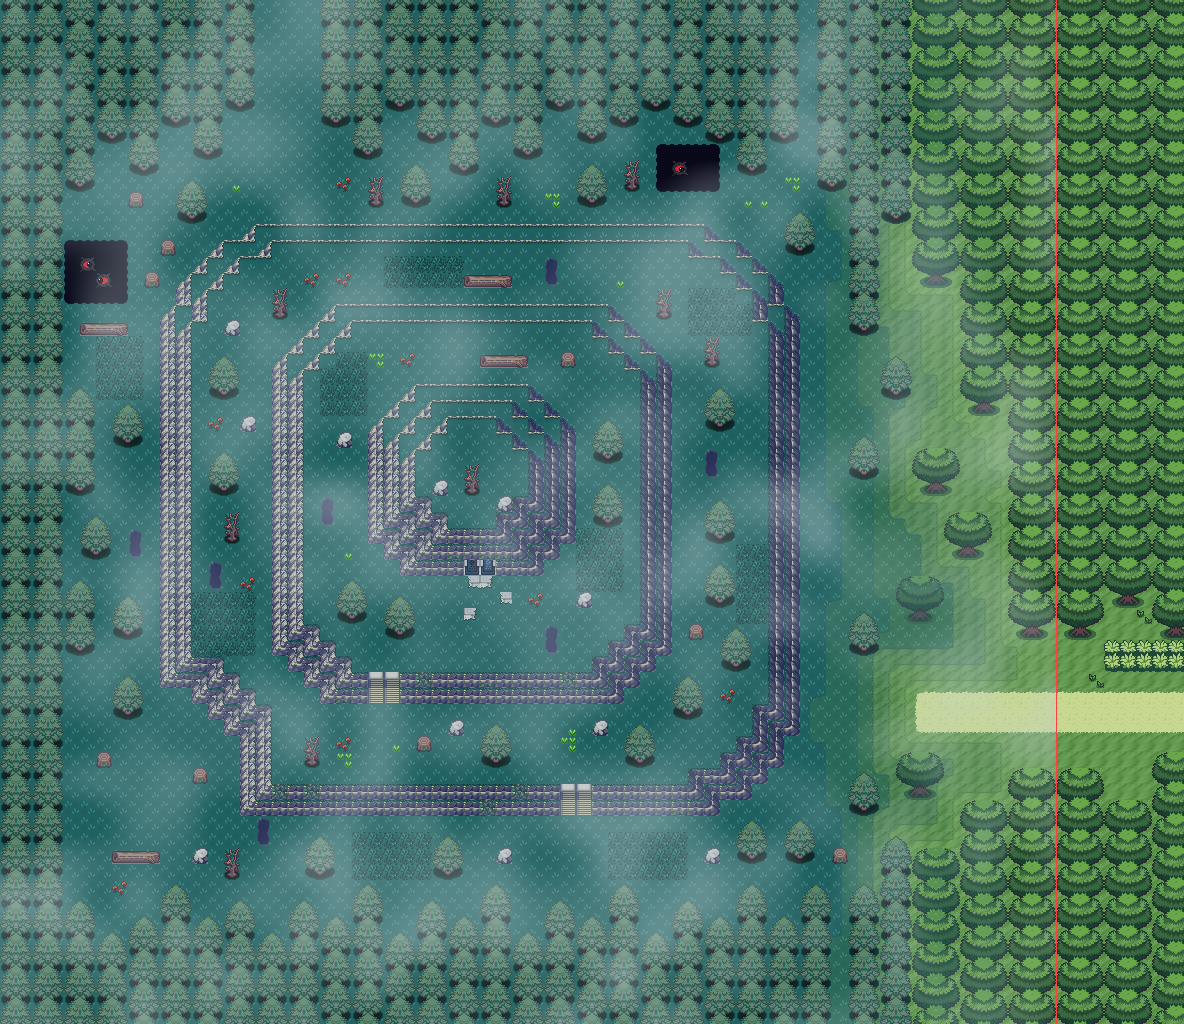
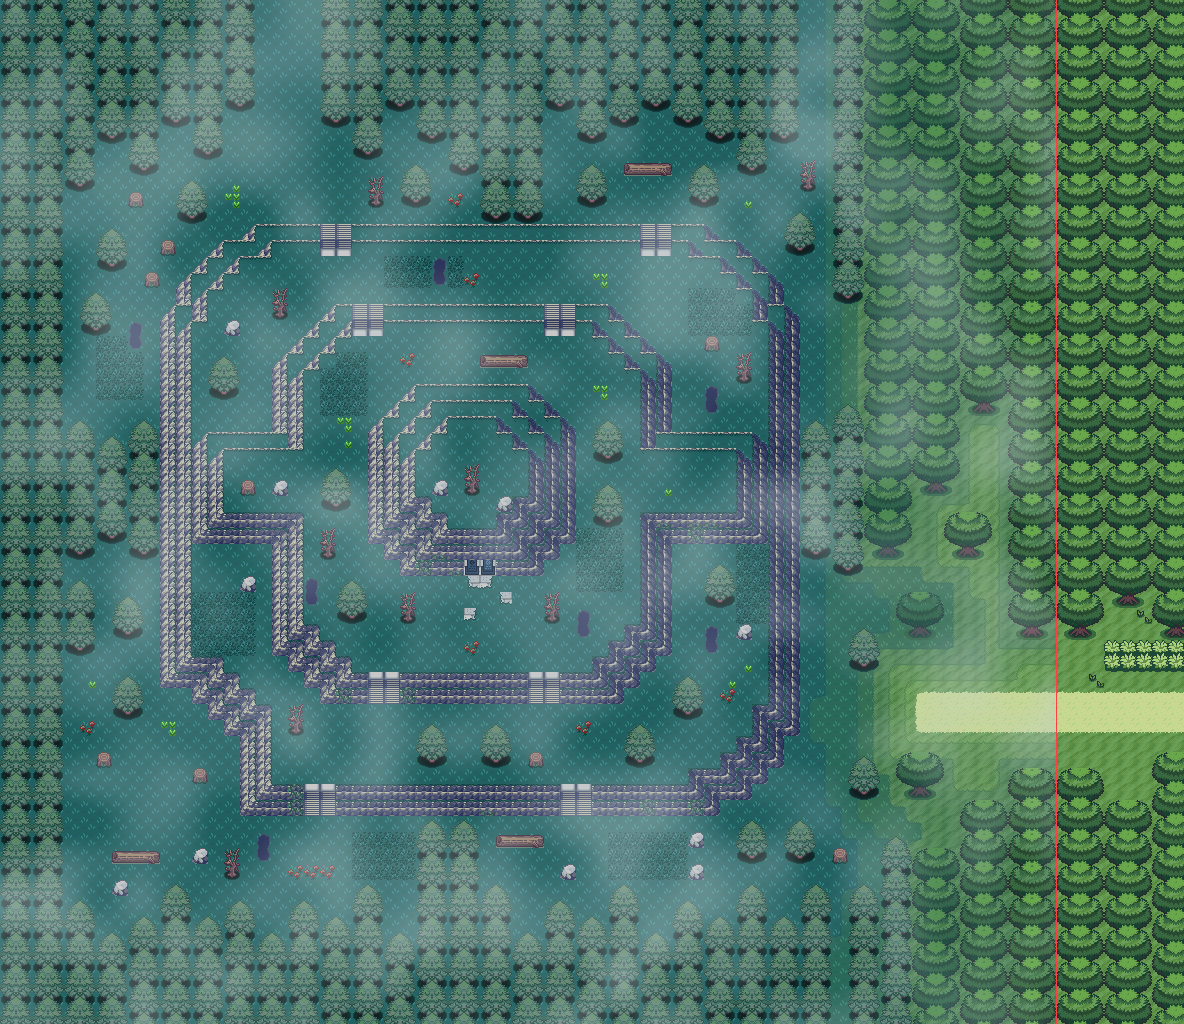
Hollow Hill mock v2: the way north goes over the hill
Per the user: the forest floor is closed into sections where trees meet the cliffs
(west, north, east, south), ring 2 reaches out west and east to cut ring 1 in two,
and eight stairs (four per ring, south faces and north edges) link the sections.
The mock asserts the north exit cannot be reached without crossing ring 2, and that
the woods do not join round the hill. The void pits are gone.

Claude-Session: https://claude.ai/code/session_01FHXnfqnedTHLf5QFbB3MCU

diff --git a/tools/art/hollowhill/hh_mock.py b/tools/art/hollowhill/hh_mock.py
@@ -94,7 +94,8 @@ def clean(m):
 
 def rings():
     P1 = rrect(10, 14, 49, 50, 7) & ~rrect(2, 43, 14, 63, 5)     # ring 1, the south-west clearing bitten out of it
-    P2 = rrect(17, 19, 41, 43, 5)
+    P2 = rrect(17, 19, 41, 43, 5) | rrect(12, 27, 47, 33, 0)     # ring 2 runs out to ring 1's edge west and east,
+                                                               # cutting ring 1 in two (north and south halves)
     P3 = rrect(23, 24, 35, 35, 4)                               # the knoll
     P1, P2, P3 = clean(P1), clean(P2), clean(P3)
     E = cheb_depth(P1, 2) + cheb_depth(P2, 2) + cheb_depth(P3, 3)
@@ -152,7 +153,9 @@ class Map:
         return True
 
     def cell(self, x, y):
-        if (x, y) in self.face: img = ody(self.face[x, y]).copy()
+        if (x, y) in self.face:
+            v = self.face[x, y]; img = ody(abs(v)).copy()
+            if v < 0: img = img[::-1].copy()              # (negative: drawn upside down, stairs on a north edge)
         elif self.ground[y][x] is not None: img = self.ground[y][x].copy()
         else:
             f = self.field; img = ground_cell((f[y, x], f[y, x + 1], f[y + 1, x], f[y + 1, x + 1]))
@@ -201,7 +204,7 @@ def flatten(M, x0, y0, w, h, k):
 def settle(M):
     """After flattening: no cell may span more than two neighbouring shades; unlocked vertices give way."""
     f, lk = M.field, M.lock
-    for _ in range(16):
+    for _ in range(80):
         bad = False
         for yy in range(H):
             for xx in range(W):
@@ -245,7 +248,7 @@ CROWN_WOODS_N = lambda yb, y, k: ((0x13, 0x14, 0x15)[k] if y == yb - 1 else (0x1
                                   else ((0x18, 0x19, 0x1a), (0x10, 0x11, 0x12))[(yb - 2 - y) % 2][k])
 CROWN_WOODS_S = lambda yt, y, k: ((0xb, 0xc, 0xd)[k] if y == yt else ((0x10, 0x11, 0x12), (0x18, 0x19, 0x1a))[(y - yt - 1) % 2][k])
 
-def crown_woods(M, cols, kind, t=0.0):
+def crown_woods(M, cols, kind, t=0.0, k=None):
     """Route 11's own woods (Crown's), columns three wide, as at Route 11's west end (on olive or moss ground)."""
     for x0, yt, yb in cols:
         for y in range(yt, yb + 1):
@@ -255,7 +258,7 @@ def crown_woods(M, cols, kind, t=0.0):
                 v = CROWN_WOODS_N(yb, y, k) if kind == 'north' else CROWN_WOODS_S(yt, y, k)
                 M.lay(x, y, 'c325', v, 'woods', top=kind == 'south' and y == yt)
                 if t: o = M.over[y][x][-1][0]; o[..., :3] = tint(o[..., :3], t)
-        flatten(M, x0, yt, 3, yb - yt + 1, min(1, int(M.field[yt:yb + 2, x0:x0 + 4].min())))
+        flatten(M, x0, yt, 3, yb - yt + 1, k if k is not None else min(1, int(M.field[yt:yb + 2, x0:x0 + 4].min())))
 
 def broad(M, x, y):
     assert M.free(x, y, 3, 3), ('broad', x, y)
@@ -284,13 +287,17 @@ def pit(M, x0, y0, w, h, eyes):
             M.ground[y][x] = ody(v).copy(); M.used[y, x] = 'pit'
 
 # ------------------------------------------------------------------ the composition
-S1 = (35, 49)                   # stairs up ring 1 (south face, two wide, two bands)
-S2 = (23, 42)                   # stairs up ring 2
+# stairs, two wide, two bands: (x, top row, 'S' on a south face | 'N' on a north edge)
+STAIRS = {'ring 1, from the south-east': (35, 49, 'S'), 'ring 1, from the clearing': (19, 49, 'S'),
+          'ring 1, down to the north woods': (20, 14, 'N'), 'ring 1, down to the north-east woods': (40, 14, 'N'),
+          'ring 2, south-west': (23, 42, 'S'), 'ring 2, south-east': (33, 42, 'S'),
+          'ring 2, north-west': (22, 19, 'N'), 'ring 2, north-east': (34, 19, 'N')}
 DOOR = (29, 35)                 # the sealed door, in the knoll's lowest band
-KEY = {'from Route 11': (57, 44), 'to Mirroh': (17, 5), 'clearing': (8, 50), 'foot of ring 1': (35, 51),
-       'ring 1': (35, 48), 'foot of ring 2': (23, 44), 'ring 2': (23, 41), 'the door': (29, 36)}
+KEY = {'from Route 11': (57, 44), 'to Mirroh': (17, 5), 'clearing': (8, 50), 'north-east woods': (46, 11),
+       'ring 1 south': (35, 48), 'ring 1 north': (30, 17), 'ring 2': (23, 41), 'the door': (29, 36)}
 # kept open: the clearing, the way north, the stairs' approaches, the door's forecourt, the track's end
-RESERVED = [(5, 46, 13, 54), (15, 0, 20, 13), (33, 47, 38, 54), (21, 40, 26, 45), (27, 36, 32, 39), (48, 42, 65, 46), (50, 30, 52, 50)]
+RESERVED = [(5, 46, 13, 54), (15, 0, 20, 13), (27, 36, 32, 39), (48, 42, 65, 46), (50, 36, 52, 50)] + \
+           [(x - 1, y - 3, x + 2, y + 4) for x, y, _ in STAIRS.values()]
 SOFT = {0x2ef, 0x2f6, 0x308, 0x30a, 0x290}      # weeds, slabs, mushrooms: walked over
 
 def walkable(M):
@@ -301,9 +308,10 @@ def walkable(M):
             if u is None or u == 'stairs' or u == 'road' or u.startswith('soft'): ok[y, x] = True
     return ok
 
-def connected(M):
+def connected(M, blocked=()):
     """Every key spot reachable from the track's end on foot (levels change only on the stairs)."""
     ok = walkable(M); E = M.E
+    for x, y in blocked: ok[y, x] = False
     start = KEY['from Route 11']; seen = {start}; todo = [start]
     while todo:
         x, y = todo.pop()
@@ -354,11 +362,14 @@ def compose(seed=5):
     M = Map(); M.field = shade_field()
     rng = np.random.default_rng(seed)
     # --- stairs and the door (cut into the south faces)
-    for x0, y0 in (S1, S2):
+    for name, (x0, y0, side) in STAIRS.items():
         for i in range(2):
             for b in range(2):
-                assert M.face.get((x0 + i, y0 + b)) == 0x2f1, ('stairs not on a south face', x0 + i, y0 + b)
-                M.face[x0 + i, y0 + b] = 0x339 if b == 0 else 0x338; M.used[y0 + b, x0 + i] = 'stairs'
+                want = 0x2f1 if side == 'S' else 0x2e1
+                assert M.face.get((x0 + i, y0 + b)) == want, ('stairs not on a straight edge', name, x0 + i, y0 + b)
+                # the landing on the high side: the top row on a south face, the bottom row (flipped) on a north edge
+                M.face[x0 + i, y0 + b] = (0x339 if b == 0 else 0x338) if side == 'S' else (0x338 if b == 0 else -0x339)
+                M.used[y0 + b, x0 + i] = 'stairs'
     for i, v in enumerate((0x2ed, 0x2ee)):
         assert M.face.get((DOOR[0] + i, DOOR[1])) == 0x2f1, ('door', DOOR)
         M.face[DOOR[0] + i, DOOR[1]] = v; M.used[DOOR[1], DOOR[0] + i] = 'door'
@@ -375,38 +386,42 @@ def compose(seed=5):
     # Crown's woods and Odyssey's pines mixing before the pines take over
     crown_woods(M, [(63, 0, 15 + OFF)], 'north'); crown_woods(M, [(63, 24 + OFF, H - 1)], 'south')
     crown_woods(M, [(60, 0, 25)], 'north', 0.18); crown_woods(M, [(60, 50, H - 1)], 'south', 0.18)
-    crown_woods(M, [(57, 0, 17)], 'north', 0.34); crown_woods(M, [(57, 53, H - 1)], 'south', 0.34)
-    for x0, yb in ((55, 13), (53, 20), (51, 11)): pine_column(M, x0, 0, yb, 'north')
+    crown_woods(M, [(57, 0, 30)], 'north', 0.3); crown_woods(M, [(57, 53, H - 1)], 'south', 0.34)
+    crown_woods(M, [(54, 0, 34)], 'north', 0.42, k=2)
+    pine_column(M, 52, 0, 18, 'north')
     for x0, yt in ((55, 52), (53, 55), (50, 55)): pine_column(M, x0, yt, H - 1, 'south')
     # west: two columns of Odyssey's pines the whole height
     pine_column(M, 0, 0, H - 1, 'wall'); pine_column(M, 2, 0, H - 1, 'wall')
     # north: pines hanging from the top, the gap for the way north to Mirroh (columns 16-19)
     for x0, yb in ((4, 11), (6, 8), (8, 10), (10, 7), (12, 9), (14, 6), (20, 7), (22, 9), (24, 6), (26, 8), (28, 10),
-                   (30, 7), (32, 9), (34, 6), (36, 8), (38, 7), (40, 6), (42, 7), (44, 8), (46, 10), (48, 8)):
+                   (30, 13), (32, 13), (34, 6), (36, 8), (38, 7), (40, 6), (42, 7), (44, 8), (46, 10), (48, 8)):
         pine_column(M, x0, 0, yb, 'north')
     # south: pines rising from the bottom
     for x0, yt in ((4, 56), (6, 58), (8, 57), (10, 55), (12, 57), (14, 56), (16, 58), (18, 56), (20, 57), (22, 55),
-                   (24, 58), (26, 56), (28, 57), (30, 55), (32, 58), (34, 56), (36, 57), (38, 55), (40, 58), (42, 56),
+                   (24, 58), (26, 51), (28, 51), (30, 55), (32, 58), (34, 56), (36, 57), (38, 55), (40, 58), (42, 56),
                    (44, 57), (46, 55), (48, 57)):
         pine_column(M, x0, yt, H - 1, 'south')
     # the west strip's edge, ragged: free-standing stacks of pines
-    pine_column(M, 4, 24, 30, 'stack'); pine_column(M, 4, 36, 40, 'stack')
+    pine_column(M, 4, 36, 40, 'stack')
+    # the forest floor closes off into sections where the woods meet the hill's cliffs: from one section to the
+    # next the way is always up into the hill (west, north, east and south)
+    for x0, yt, yb in ((4, 26, 34), (6, 27, 33), (8, 26, 34), (50, 26, 34), (52, 25, 35)):
+        pine_column(M, x0, yt, yb, 'stack')
     # --- the void pits, red eyes watching
-    pit(M, 4, 15, 4, 4, {(5, 16): 0x353, (6, 17): 0x354})
-    pit(M, 41, 9, 4, 3, {(42, 10): 0x357})
     # --- burrow mouths (scenery now; secrets later): Odyssey's hollow, 314 over 31c
-    for x, y in ((8, 33), (34, 16), (44, 28), (34, 39), (20, 31), (16, 51), (13, 35)):
-        thing(M, x, y, [[0x314], [0x31c]], 'thing:burrow')
+    for x, y in ((8, 20), (27, 16), (44, 24), (36, 38), (19, 36), (16, 52), (14, 42), (44, 39)):
+        try: thing(M, x, y, [[0x314], [0x31c]], 'thing:burrow')
+        except AssertionError: print('no room for a burrow at', x, y)
     # --- the knoll's forecourt: broken slabs before the door
     for x, y, v in ((29, 36, 0x308), (30, 36, 0x30a), (29, 38, 0x30a), (31, 37, 0x308)):
         M.lay(x, y, 'ody', v, 'soft:slab')
     # --- the east, between Route 11's woods and the haunted floor: a Crown broadleaf, then Odyssey's pines
-    near(M, broad, 3, [(57, 28), (56, 36), (59, 49), (61, 30)])
+    near(M, broad, 3, [(56, 37), (59, 49), (61, 30)])
     # the knoll's top: one dead tree, rocks (out of reach until late in the game)
     thing(M, 29, 29, [[0x2a0], [0x2a8]], 'thing:dead'); thing(M, 27, 30, 0x2fe, 'thing:rock'); thing(M, 31, 31, 0x2fe, 'thing:rock')
     # --- trees, dead trees, stumps, logs, rocks, mushrooms, weeds: scattered, never cut, stacked or touching a cliff,
     # and never closing the way between the key spots
-    near(M, pine, 2, [(53, 27), (54, 39), (53, 48), (55, 22)])    # Odyssey's pines in the mixed band
+    near(M, pine, 2, [(53, 39), (54, 48), (50, 16)])    # Odyssey's pines in the mixed band
     # tall grass (the wild Pokemon's): Odyssey's dark tufts, in patches
     for x0, y0, x1, y1 in ((6, 21, 8, 24), (12, 37, 15, 40), (38, 52, 42, 54), (22, 52, 26, 54), (43, 18, 46, 20),
                            (24, 16, 28, 17), (36, 33, 38, 36), (20, 22, 22, 25), (46, 34, 47, 38)):
@@ -427,6 +442,11 @@ def compose(seed=5):
     settle(M)
     miss = connected(M)
     assert not miss, ('cut off', miss)
+    # the hill is the only way between the sections: with ring 2's stairs closed the north is out of reach
+    ring2 = [(x + i, y + b) for n, (x, y, _) in STAIRS.items() if n.startswith('ring 2') for i in range(2) for b in range(2)]
+    assert 'to Mirroh' in connected(M, ring2), 'the north can be reached without crossing ring 2'
+    ring1 = [(x + i, y + b) for n, (x, y, _) in STAIRS.items() if n.startswith('ring 1') for i in range(2) for b in range(2)]
+    assert set(connected(M, ring1)) >= {'clearing', 'to Mirroh', 'north-east woods'}, 'the woods join round the hill'
     return M
 
 # ------------------------------------------------------------------ output
@@ -454,10 +474,10 @@ def fog(img, seed=3, amount=0.42):
     return (img * (1 - n) + fogc * n).astype(np.uint8)
 
 LABELS = [((17, 6), 'north to Mirroh (Glaive)'), ((8, 50), 'clearing: Eiscue, the 1v2'), ((59, 47), 'from Route 11'),
-          ((35, 52), 'stairs: ring 1'), ((23, 45), 'stairs: ring 2'), ((29, 37), 'sealed door'),
-          ((29, 27), 'knoll top (late game)'), ((5, 14), 'void pit, eyes'), ((42, 8), 'void pit'),
-          ((8, 33), 'burrow'), ((34, 16), 'burrow'), ((44, 28), 'burrow'), ((34, 39), 'burrow'), ((20, 31), 'burrow'),
-          ((16, 51), 'burrow'), ((13, 35), 'burrow'), ((6, 22), 'tall grass')]
+          ((29, 37), 'sealed door'), ((29, 27), 'knoll top (late game)'), ((6, 30), 'trees close the way'),
+          ((51, 30), 'trees close the way'), ((31, 6), 'trees close the way'), ((27, 54), 'trees close the way'),
+          ((46, 11), 'north-east woods'), ((6, 20), 'north-west woods')] + \
+         [((x, y), 'stairs') for x, y, _ in STAIRS.values()]
 
 def annotate(img, scale=2):
     im = Image.fromarray(img).resize((img.shape[1] * scale, img.shape[0] * scale), 0); d = ImageDraw.Draw(im)
